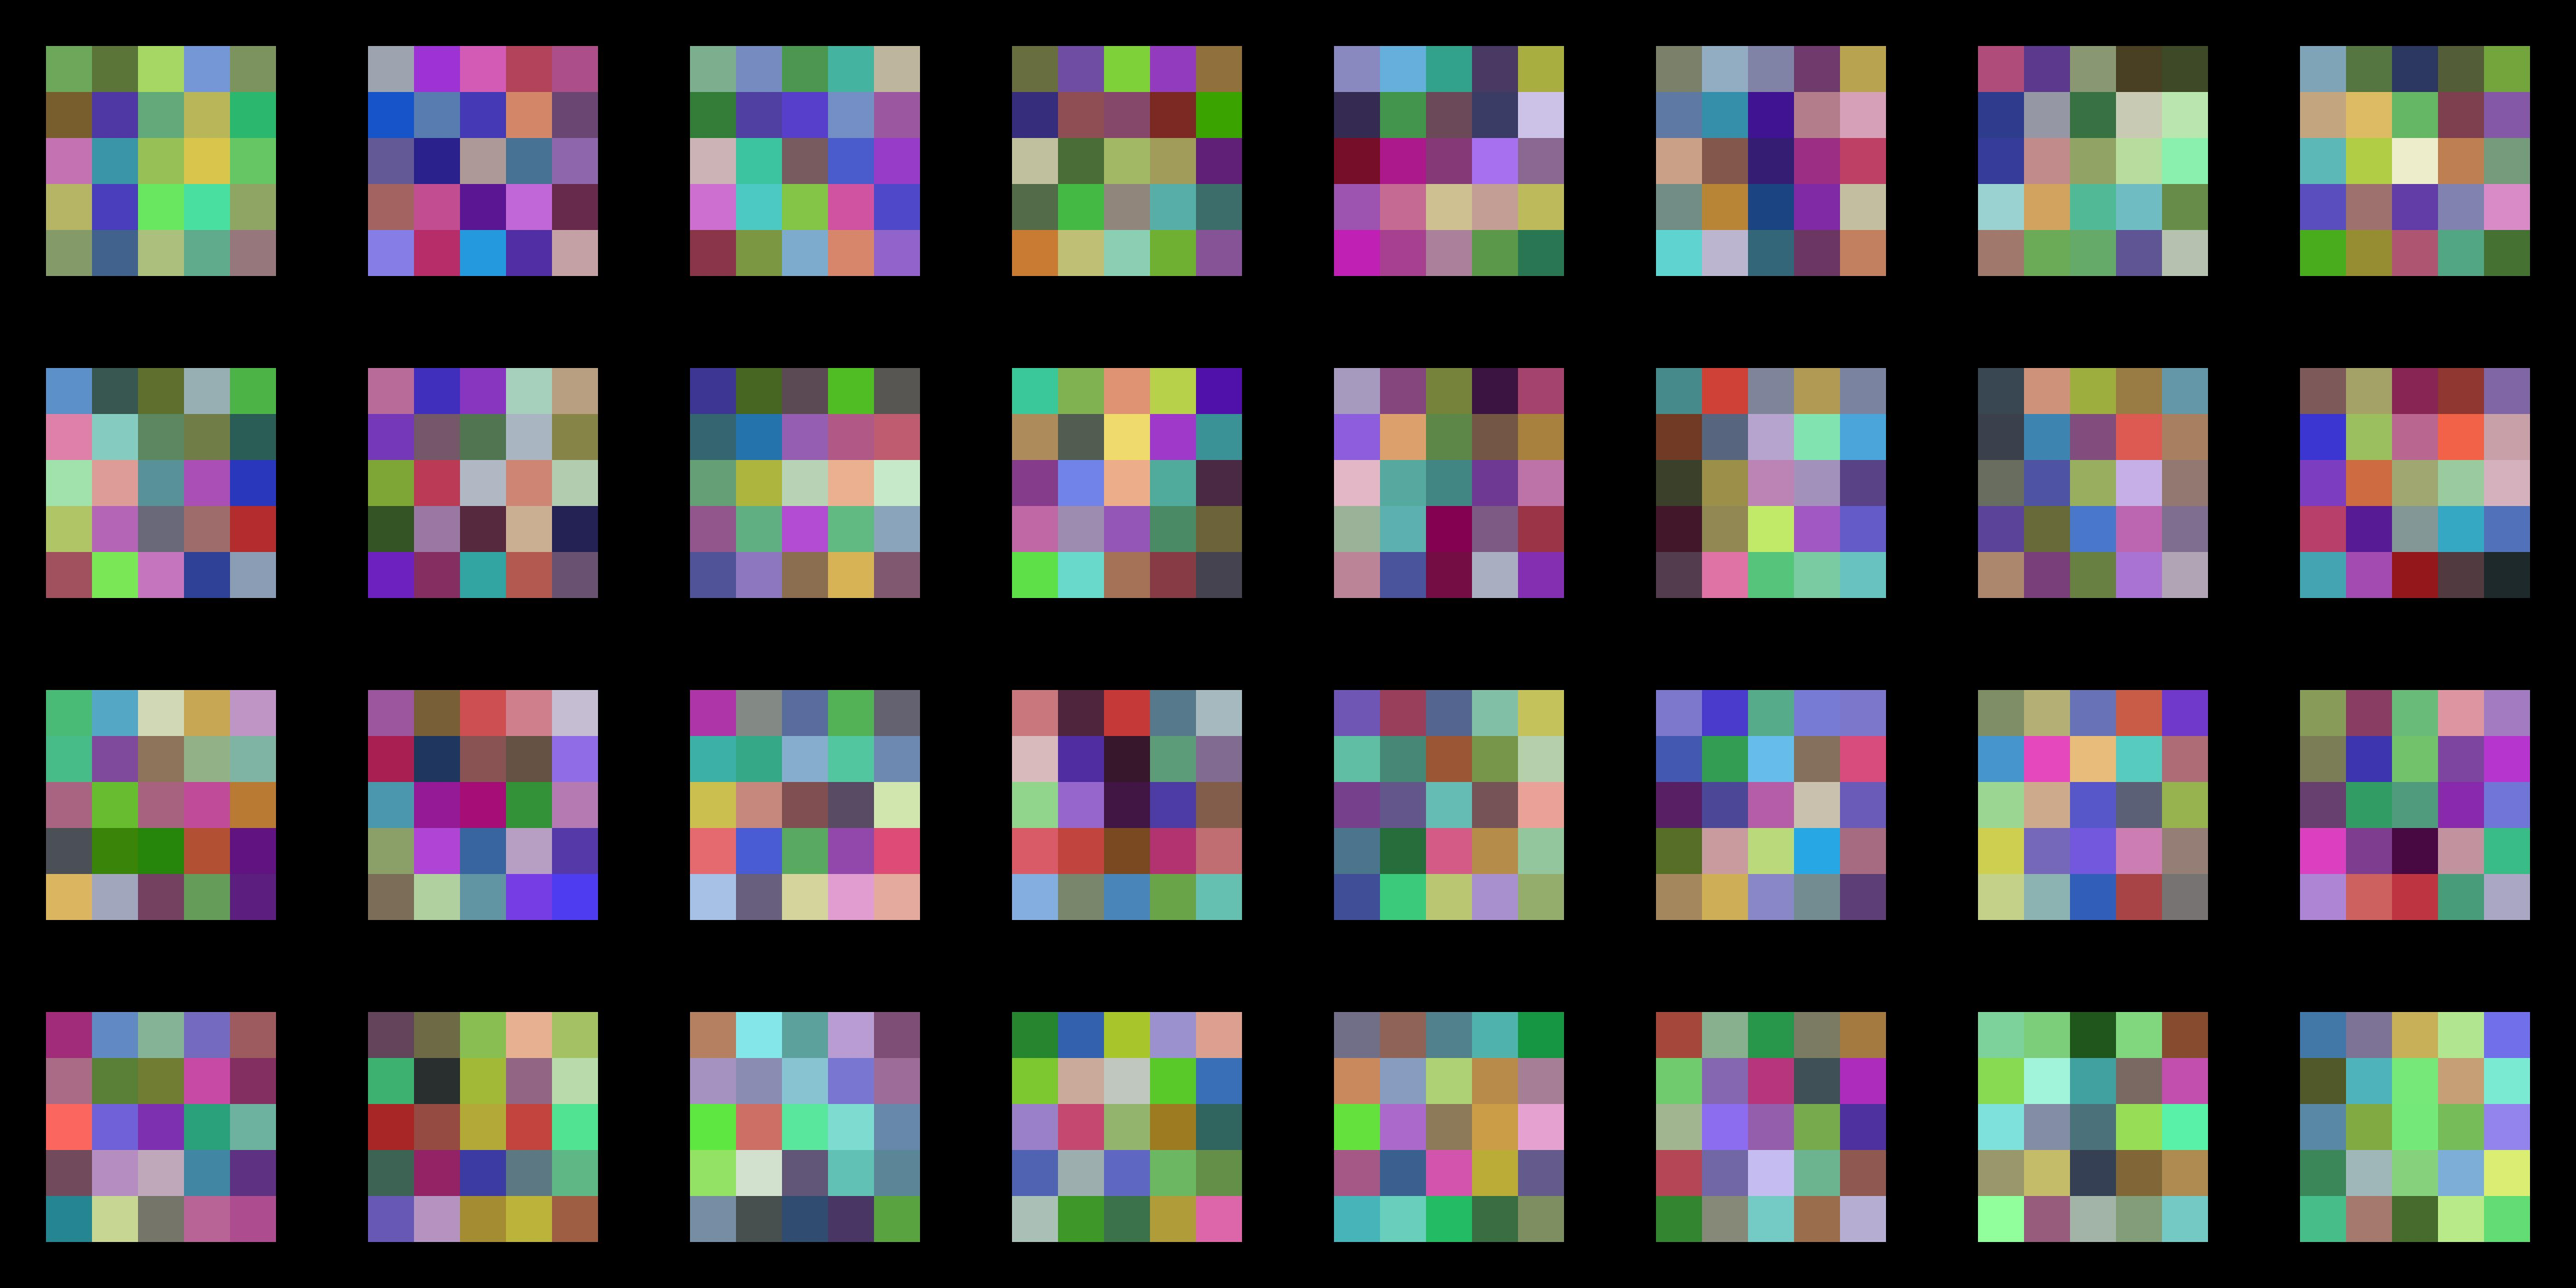
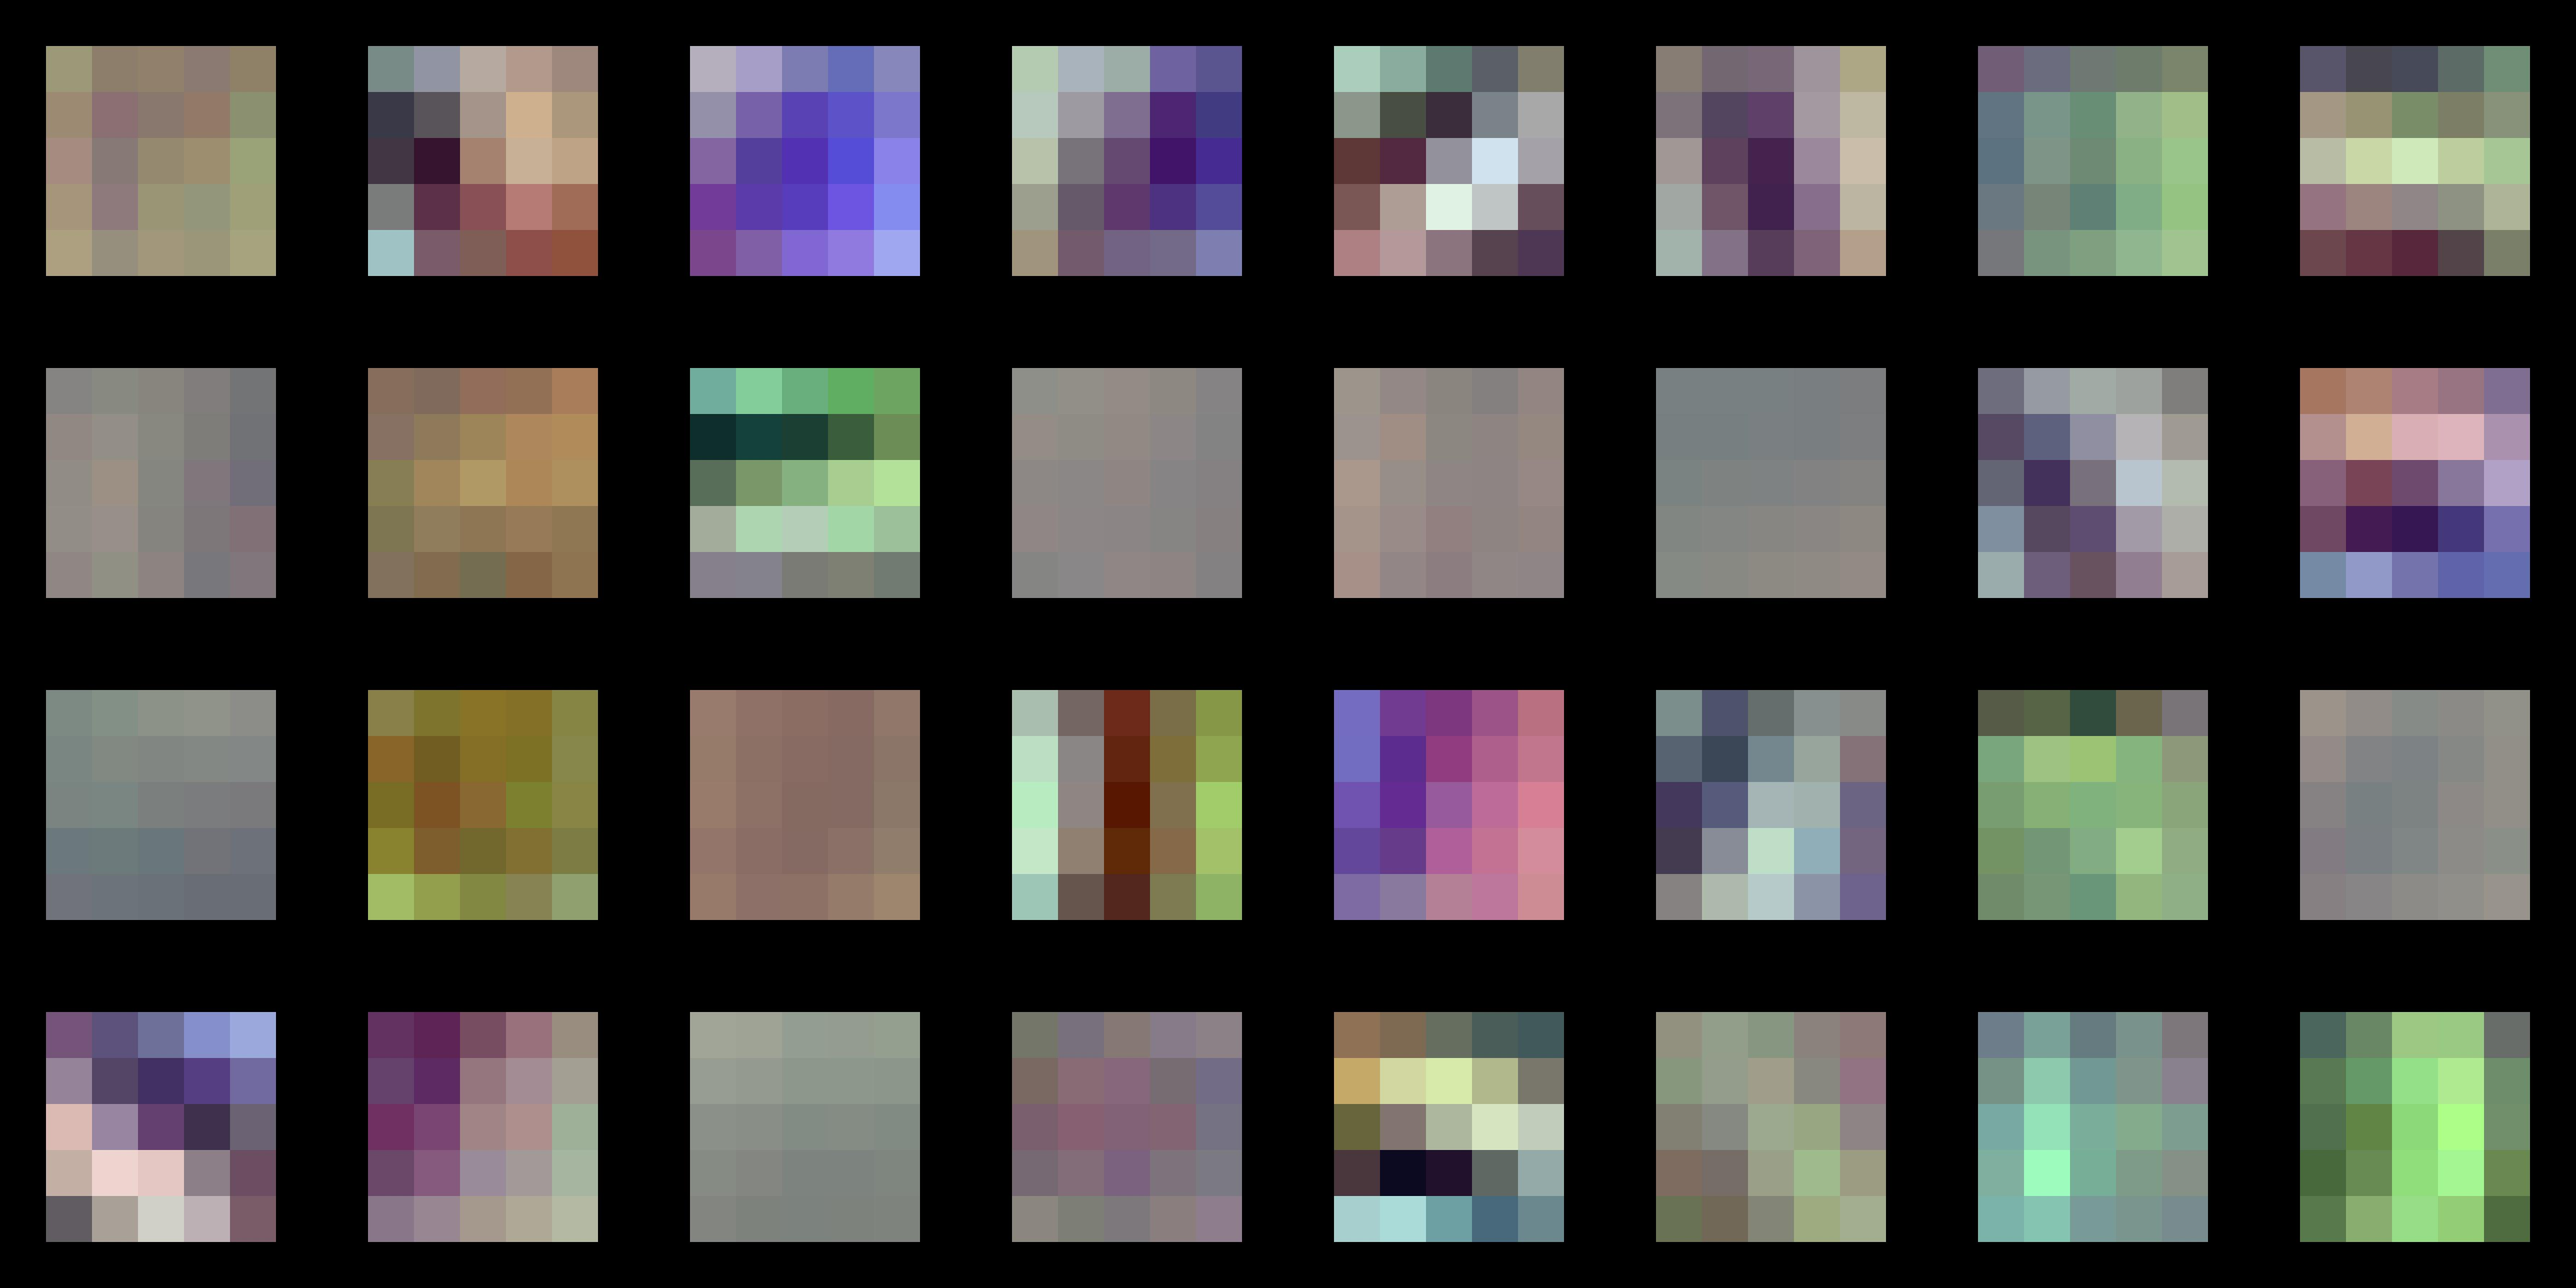
commit plots

diff --git a/part2/train_valid.py b/part2/train_valid.py
@@ -64,11 +64,17 @@ def _evaluate_data_set(model, data_loader):
 
 
 def run(model, train_loader, valid_loader, test_loader, model_name, 
-		total_epoch, lr, opt, momentum, lr_decay=1e-5):
+		total_epoch, lr, opt, momentum, lr_decay=1e-5, weight_decay=1e-5):
 
 	if opt == 'Adagrad':
-		print 'Learning rate decay:\t{}\n'.format(lr_decay)
-		optimizer = optim.Adagrad(model.parameters(), lr=lr, lr_decay=lr_decay)
+		print 'Learning rate decay:\t{}'.format(lr_decay)
+		print 'Weight decay:\t\t{}\n'.format(weight_decay)
+		optimizer = optim.Adagrad(model.parameters(), lr=lr, lr_decay=lr_decay,
+								  weight_decay=weight_decay)
+	if opt == 'Adam':
+		print 'Weight decay:\t\t{}\n'.format(weight_decay)
+		optimizer = optim.Adam(model.parameters(), lr=lr,
+							   weight_decay=weight_decay)
 	else:
 		print 'Momentum:\t\t{}\n'.format(momentum)
 		optimizer = optim.SGD(model.parameters(), lr=lr, momentum=momentum)
@@ -89,6 +95,11 @@ def run(model, train_loader, valid_loader, test_loader, model_name,
 	test_loss.append(avg_loss)
 	test_acc.append(accuracy)
 	print('| test loss: {:.4f}\ttest acc: {:.4f}'.format(avg_loss, accuracy))
+
+	# visualize kernels
+	visualize_kernel(model.features[1].weight,
+					 im_name='conv1_kernel_epoch_{}.jpg'.format(0),
+					 model_name=model_name)
 
 	for epoch in range(1, total_epoch+1):
 

diff --git a/part2/util.py b/part2/util.py
@@ -73,6 +73,8 @@ def visualize_kernel(kernel_tensor, im_name='conv1_kernel.jpg', pad=1, im_scale=
 
 def plot_acc_loss(train_loss, train_acc, val_loss, val_acc, test_loss, test_acc,
 				  model_name=''):
+
+	plt.clf()
 	plt.plot(range(len(train_loss)), train_loss, 'ro-', label='train')
 	plt.plot(range(len(train_loss)), val_loss, 'bs-', label='valid')
 	plt.plot(range(len(train_loss)), test_loss, 'g^-', label='test')
@@ -81,11 +83,11 @@ def plot_acc_loss(train_loss, train_acc, val_loss, val_acc, test_loss, test_acc,
 	plt.ylabel('Loss')
 
 	plt.title('Epoch vs Loss')
-	plt.legend(loc=4)
+	plt.legend(loc=1)
 	print '| saving {}...'.format('{}/{}_loss_curve.png'.format(RESULT_PATH, model_name))
 	plt.savefig('{}/{}_loss_curve.png'.format(RESULT_PATH, model_name))
-	plt.clf()
 
+	plt.clf()
 	plt.plot(range(len(train_loss)), train_acc, 'ro-', label='train')
 	plt.plot(range(len(train_loss)), val_acc, 'bs-', label='valid')
 	plt.plot(range(len(train_loss)), test_acc, 'g^-', label='test')

diff --git a/part2/main.py b/part2/main.py
@@ -5,7 +5,7 @@ from util import *
 
 def parse():
 	parser = argparse.ArgumentParser()
-	parser.add_argument('-lr', '--learning_rate', default=5e-2, type=float,
+	parser.add_argument('-lr', '--learning_rate', default=1e-2, type=float,
 						help='Learning rate')
 	parser.add_argument('-m', '--momentum', default=0.2, type=float, help="Momentum")
 	parser.add_argument('-s', '--seed', default=111, type=int, help='Random seed')
@@ -48,7 +48,6 @@ if __name__ == '__main__':
 	print 'Loading model...\n'
 
 	model = Net()
-	#model = ResNet(BottleneckBlock, [3,4,6,4])
 
 	output_arguments(args)
 
